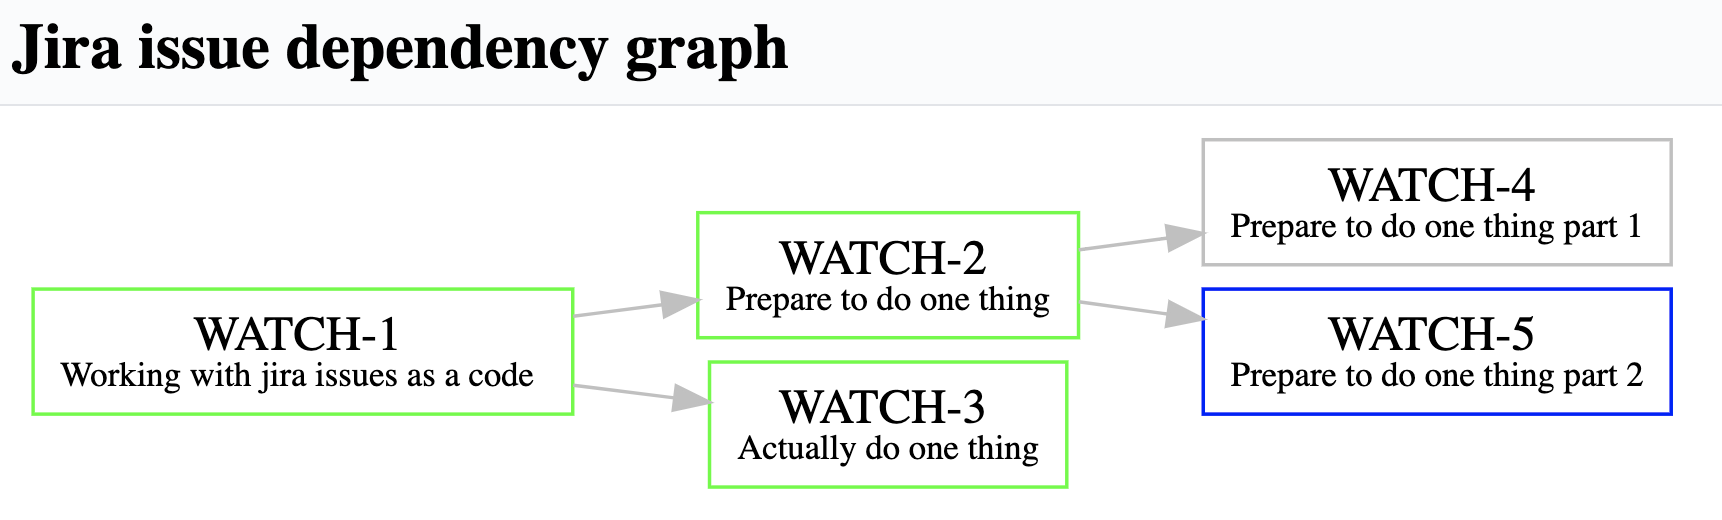
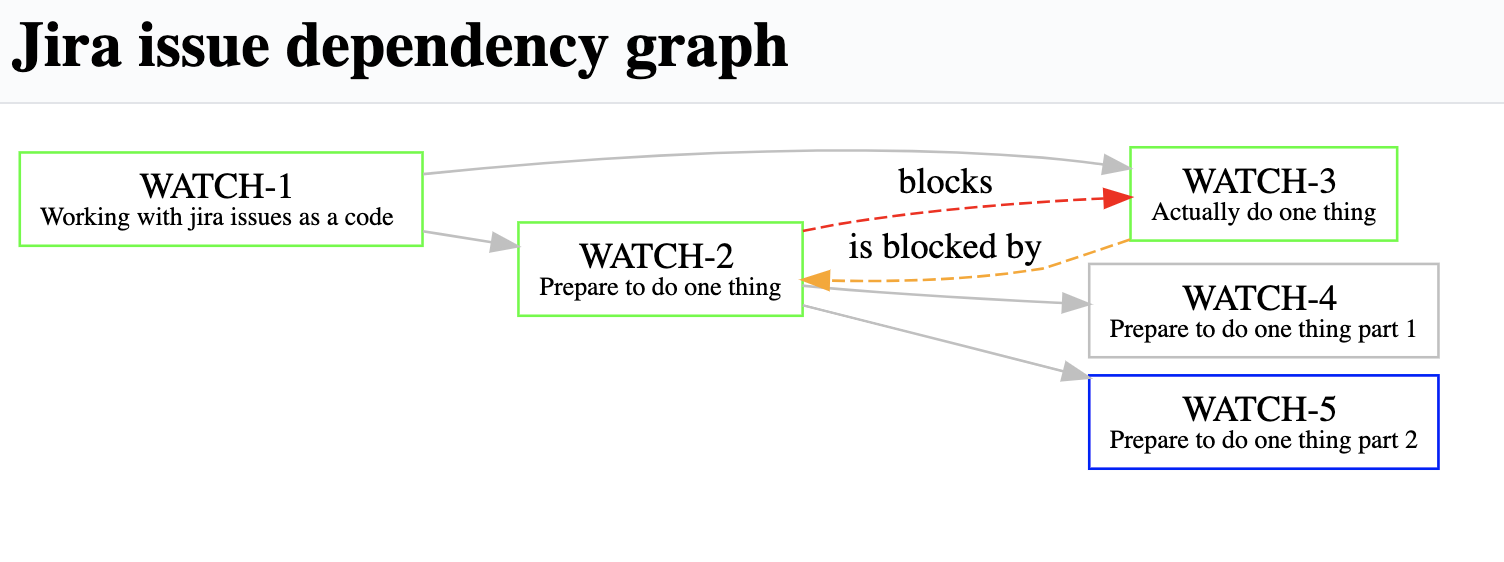
Add images for readme

diff --git a/README.md b/README.md
@@ -5,6 +5,14 @@
 Gradle composite approach is been using and jam project is required to be at `../jam`. 
 But it could be changed in `settings.gradle`.
 
+## Features
+
+Depth: 
+- **Epic** -> Issue of any kind in Epic 
+- Issue with type **Initiative** -> Issue of any kind where **Initiative** **is parent task of**
+
+Link of any kind between issues.
+
 ## Launching
 
 ```properties
